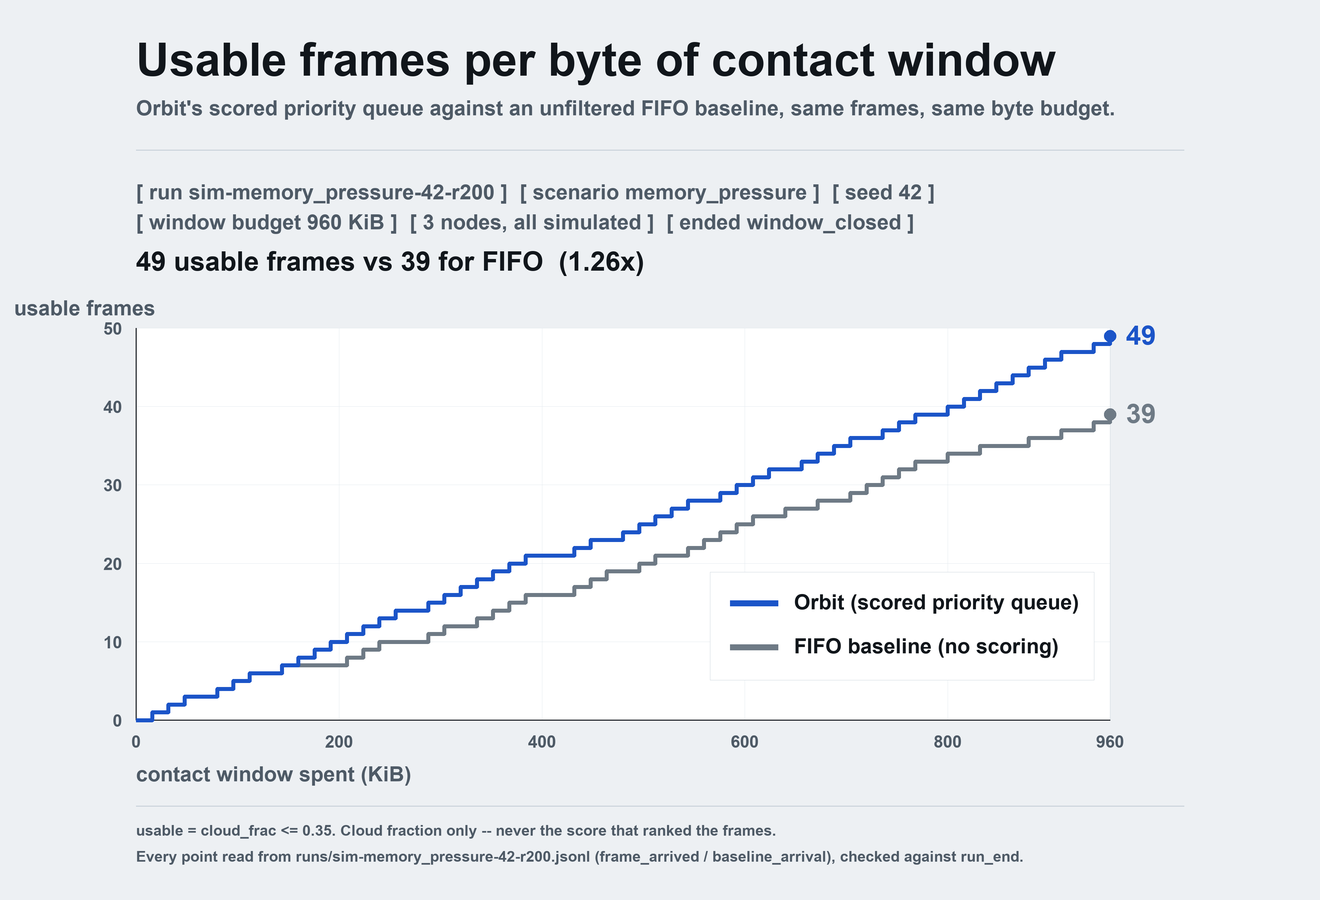
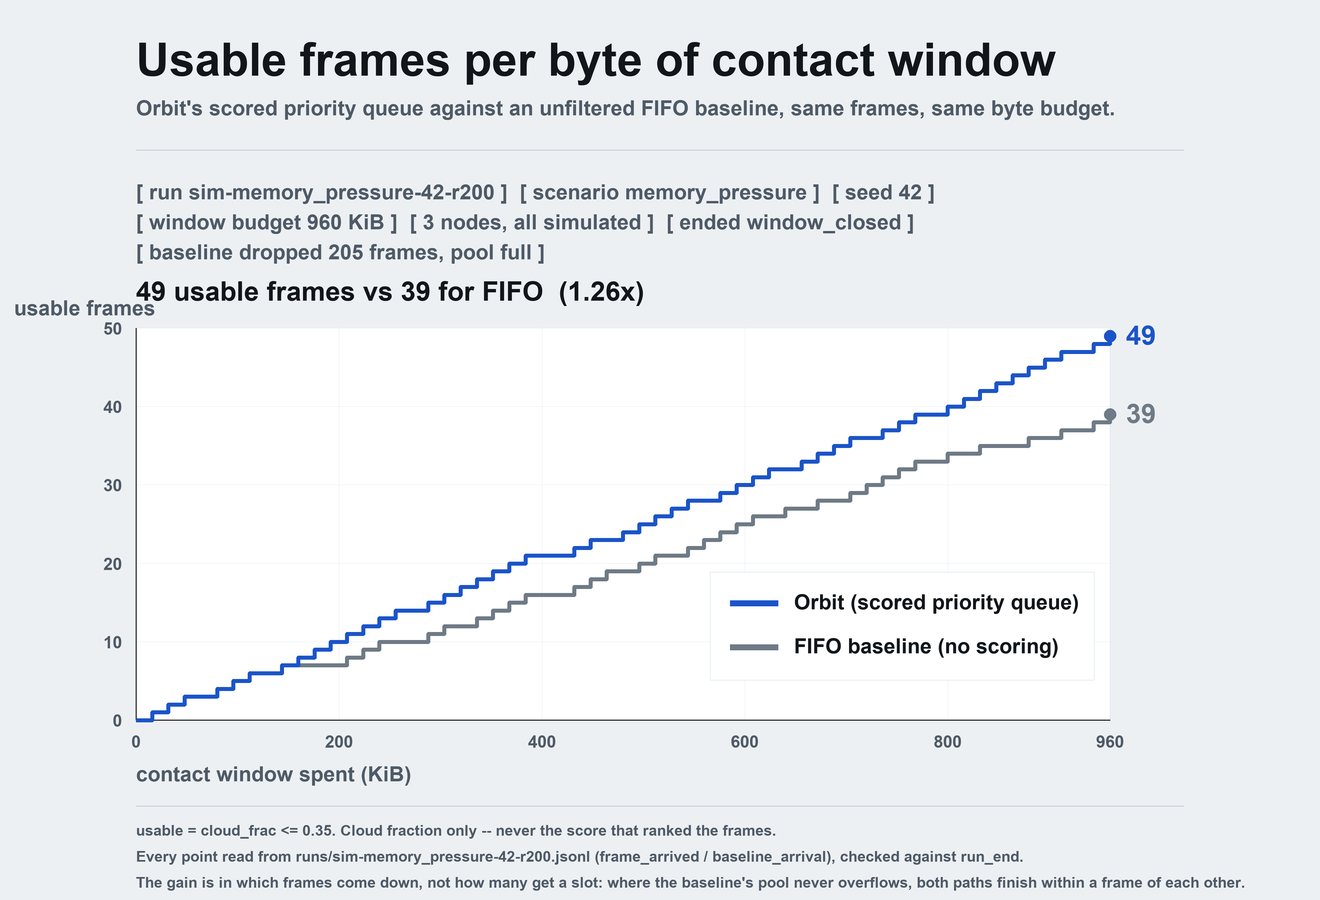
Make the chart refuse to draw what it cannot check, and say what it does not claim
Three holes, all in the part of the tool that exists to keep the figure honest.

The self-check that holds each curve against run_end's own totals was a bare
assert, so `python -O` deleted it. Under -O the tool drew a chart from a run file
whose stream and summary disagreed by seven frames and printed a 2.000x gain lifted
straight out of the falsified summary. Both asserts are PlotError now, and the
except AssertionError that used to catch them is gone with them.

A run with no run_end was plotted with no verification at all, and the footer still
said "checked against run_end" underneath it. That is the ordinary case -- a
Ctrl-C'd demo, a stream captured mid-pass -- not an exotic one. It is refused.

And the number that decides what the gain means was not on the chart. A window
where the baseline never had to throw a frame away cannot show a filtering
advantage, because there was nothing to filter; memory_pressure is on the chart
precisely because its baseline dropped 205 frames with a full pool. That count now
sits in the caption, and a footer line says what the figure does not claim:
nominal finishes 37 to 36 over a full window and late_joiner 35 to 36. The
advantage is a contention result. Better to write that down than have a judge
find it.

The README now carries the chart under the headline claim, with the two commands
that regenerate it and the same scope stated in prose.

Changed region(s): [[0.0932, 0.2489, 0.497, 0.3422], [0.0932, 0.9644, 0.9318, 0.9956]]

diff --git a/tools/plot_value.py b/tools/plot_value.py
@@ -101,6 +101,7 @@ class RunPlot:
     usable_rule: str
     end_reason: str | None
     gain: float | None
+    dropped_full: int | None
     orbit: Series
     baseline: Series
 
@@ -219,14 +220,21 @@ def load_run(path: Path) -> RunPlot:
     scenario, seed = _split_run_id(run_id)
     rule = start.get("usable_rule")
 
+    # No run_end means no totals to check the curves against, and the chart says in its own
+    # footer that it was checked. Refuse rather than draw an unverifiable figure that claims
+    # otherwise -- an interrupted run is exactly when a stream is most likely to be short.
+    if end is None:
+        raise PlotError(
+            f"{path}: no run_end event. This run did not finish, so its curves cannot be held "
+            "against the totals the chart claims to have checked them against."
+        )
+    _check_against_run_end(path, end, orbit, baseline)
+    end_reason = end.get("reason")
     gain: float | None = None
-    end_reason: str | None = None
-    if end is not None:
-        _check_against_run_end(path, end, orbit, baseline)
-        end_reason = end.get("reason")
-        headline = end.get("headline")
-        if isinstance(headline, dict) and isinstance(headline.get("gain"), int | float):
-            gain = float(headline["gain"])
+    headline = end.get("headline")
+    if isinstance(headline, dict) and isinstance(headline.get("gain"), int | float):
+        gain = float(headline["gain"])
+    dropped_full = _baseline_dropped_full(end)
 
     return RunPlot(
         path=path,
@@ -238,6 +246,7 @@ def load_run(path: Path) -> RunPlot:
         usable_rule=_describe_usable_rule(rule if isinstance(rule, dict) else None),
         end_reason=str(end_reason) if end_reason is not None else None,
         gain=gain,
+        dropped_full=dropped_full,
         orbit=orbit,
         baseline=baseline,
     )
@@ -254,17 +263,30 @@ def _check_against_run_end(path: Path, end: Event, orbit: Series, baseline: Seri
         if not isinstance(summary, dict):
             continue
         recorded_usable = summary.get("usable_down")
-        if isinstance(recorded_usable, int):
-            assert series.usable == recorded_usable, (
+        if isinstance(recorded_usable, int) and series.usable != recorded_usable:
+            raise PlotError(
                 f"{path}: {key} curve ends at {series.usable} usable frames but "
                 f"run_end.{key}.usable_down says {recorded_usable}"
             )
         recorded_bytes = summary.get("bytes_used")
-        if isinstance(recorded_bytes, int):
-            assert series.bytes_used == recorded_bytes, (
+        if isinstance(recorded_bytes, int) and series.bytes_used != recorded_bytes:
+            raise PlotError(
                 f"{path}: {key} curve ends at {series.bytes_used} bytes but "
                 f"run_end.{key}.bytes_used says {recorded_bytes}"
             )
+
+
+def _baseline_dropped_full(end: Event) -> int | None:
+    """How many frames the FIFO baseline threw away because a node's pool was full.
+
+    The number that says whether this run was under buffer pressure at all, and so whether
+    the gain beside it is a contention result or a reordering one. Read from run_end.
+    """
+    summary = end.get("baseline")
+    if not isinstance(summary, dict):
+        return None
+    dropped = summary.get("frames_dropped_full")
+    return dropped if isinstance(dropped, int) else None
 
 
 # ------------------------------------------------------------------------- drawing
@@ -408,6 +430,14 @@ def _draw_panel(
     bits.append(run.nodes_badge)
     if run.end_reason is not None:
         bits.append(f"ended {run.end_reason}")
+    if run.dropped_full is not None:
+        # Whether the baseline was ever forced to throw a frame away is what separates a
+        # contention result from a reordering one, so it belongs on the face of the chart.
+        bits.append(
+            f"baseline dropped {run.dropped_full} frames, pool full"
+            if run.dropped_full
+            else "baseline never overflowed its pool"
+        )
     caption_y = top + 4 * s
     for line in _wrap(draw, [f"[ {b} ]" for b in bits], fonts.label, x1 - x0):
         draw.text((x0, caption_y), line, font=fonts.label, fill=INK_2)
@@ -522,6 +552,16 @@ def render(runs: list[RunPlot], out: Path) -> None:
         font=fonts.caption,
         fill=INK_2,
     )
+    # The scope of the claim, so a gain measured under buffer pressure is not read as a
+    # general one. Only drawn when a panel was actually under pressure, and only then.
+    if any(r.dropped_full for r in runs):
+        draw.text(
+            (margin, y + 78 * s),
+            "The gain is in which frames come down, not how many get a slot: where the baseline's "
+            "pool never overflows, both paths finish within a frame of each other.",
+            font=fonts.caption,
+            fill=INK_2,
+        )
 
     out.parent.mkdir(parents=True, exist_ok=True)
     img.resize((width // s, height // s), Image.Resampling.LANCZOS).save(out)
@@ -555,9 +595,6 @@ def main(argv: list[str] | None = None) -> int:
             runs.append(load_run(path))
         except PlotError as e:
             print(f"plot_value: {e}", file=sys.stderr)
-            return 2
-        except AssertionError as e:
-            print(f"plot_value: run file failed its own self-check: {e}", file=sys.stderr)
             return 2
 
     out = Path(args.out)

diff --git a/README.md b/README.md
@@ -125,6 +125,24 @@ The demo's headline is `run_end` in every run file: usable frames downlinked by 
 versus a first-in-first-out baseline given the *same byte budget*, where "usable"
 is cloud fraction ≤ 0.35 — never the score that did the ranking.
 
+![Usable frames per byte of contact window](results/filtered_vs_fifo.png)
+
+Drawn by `tools/plot_value.py` straight from a run file, checked against that file's own
+`run_end` totals before anything is plotted. Regenerate it with:
+
+```bash
+uv run orbit sim --scenario memory_pressure --seed 42 --rounds 200 \
+  --run-id sim-memory_pressure-42-r200
+uv run python tools/plot_value.py runs/sim-memory_pressure-42-r200.jsonl
+```
+
+**What this does and does not claim.** `memory_pressure` is the scenario where the
+satellite's pool overflows and frames have to be thrown away — the baseline dropped 205
+of them here — and choosing *which* ones to keep by score is what pays. Where nothing
+overflows, both paths finish within a frame of each other over a full window
+(`nominal` 37 vs 36, `late_joiner` 35 vs 36). The advantage is a contention result, not
+a general throughput win, and the chart says so on its face.
+
 ## Map
 
 ```
